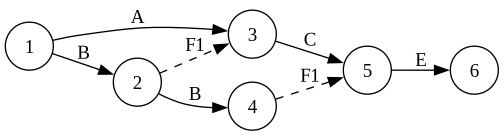
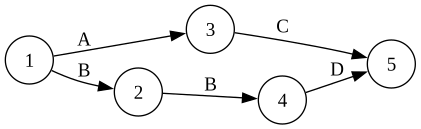
act

diff --git a/PRACTICA_BLOQUE_II/calculoEL.py b/PRACTICA_BLOQUE_II/calculoEL.py
@@ -1,0 +1,158 @@
+import pandas as pd
+
+def calcular_early_times(nodos, relaciones, duraciones):
+    """
+    Calcula Early Times (Ei) para una red de nodos.
+    
+    :param nodos: Lista de nodos (ordenados según dependencias para asegurar cálculos progresivos).
+    :param relaciones: Diccionario donde las claves son nodos y los valores son listas de tuplas (actividad, destino).
+    :param duraciones: Diccionario con las duraciones de las actividades.
+    :return: Diccionario con los tiempos Ei y un DataFrame con los resultados.
+    """
+    # Inicializar Early Times (Ei) en 0 para todos los nodos
+    Ei = {nodo: 0 for nodo in nodos}
+    
+    # Calcular Early Times (Ei) nodo por nodo
+    for nodo in nodos:
+        if nodo in relaciones:  # Si el nodo tiene conexiones salientes
+            for actividad, destino in relaciones[nodo]:
+                # Actualizar Ei del destino como el máximo entre los valores actuales y el nuevo cálculo
+                Ei[destino] = max(Ei[destino], Ei[nodo] + duraciones[actividad])
+    
+    # Crear un DataFrame con los resultados
+    tabla_early = pd.DataFrame({
+        'Ti': nodos,
+        'Ei': [Ei[nodo] for nodo in nodos],
+    })
+    
+    return Ei, tabla_early
+
+def calcular_late_times(nodos, relaciones, duraciones, Ei):
+    """
+    Calcula Late Times (Li) para una red de nodos, usando la lógica inversa de los Early Times.
+    
+    :param nodos: Lista de nodos (ordenados según dependencias para asegurar cálculos progresivos).
+    :param relaciones: Diccionario donde las claves son nodos y los valores son listas de tuplas (actividad, destino).
+    :param duraciones: Diccionario con las duraciones de las actividades.
+    :param Ei: Diccionario con los Early Times calculados previamente.
+    :return: Diccionario con los tiempos Li y un DataFrame con los resultados.
+    """
+    # Inicializar Late Times (Li) con valores grandes (un valor suficientemente grande para empezar)
+    Li = {nodo: float('inf') for nodo in nodos}
+    
+    # El último nodo tiene Li igual a Ei
+    Li[nodos[-1]] = Ei[nodos[-1]]
+    
+    # Calcular Late Times (Li) de forma inversa
+    for nodo in reversed(nodos[:-1]):
+        if nodo in relaciones:  # Si el nodo tiene conexiones salientes
+            for actividad, destino in relaciones[nodo]:
+                # Actualizar Li del nodo como el mínimo entre los valores actuales y el cálculo usando la actividad
+                Li[nodo] = min(Li[nodo], Li[destino] - duraciones[actividad])
+    
+    # Crear un DataFrame con los resultados
+    tabla_late = pd.DataFrame({
+        'Ti': nodos,
+        'Li': [Li[nodo] for nodo in nodos],
+    })
+    
+    return Li, tabla_late
+
+def generar_tabla_tareas(nodos, relaciones, duraciones, Ei, Li):
+    """
+    Genera la tabla de tareas con la información de la ruta, duración, Ei, Lj, Hij y estado crítico.
+    
+    :param nodos: Lista de nodos.
+    :param relaciones: Diccionario de relaciones entre nodos.
+    :param duraciones: Diccionario con las duraciones de las actividades.
+    :param Ei: Diccionario con los tiempos de inicio temprano (Ei) de cada nodo.
+    :param Li: Diccionario con los tiempos de inicio tardío (Li) de cada nodo.
+    :return: DataFrame con la tabla de tareas.
+    """
+    # Lista de resultados para la tabla
+    tareas_info = []
+    
+    # Recorremos todas las actividades para llenar la tabla
+    for nodo in nodos:
+        if nodo in relaciones:  # Si el nodo tiene conexiones salientes
+            for actividad, destino in relaciones[nodo]:
+                # Obtener la duración de la tarea
+                Di = duraciones[actividad]
+                # Obtener Ei para el nodo origen y Lj para el nodo destino
+                Ei_val = Ei[nodo]
+                Lj_val = Li[destino]
+                # Calcular Hij (holgura)
+                Hij = Lj_val - Di - Ei_val
+                # Verificar si la tarea es crítica
+                critico = "Sí" if Hij == 0 else "No"
+                # Añadir la fila correspondiente a la tabla
+                tareas_info.append([actividad, f"{nodo} -> {destino}", Di, Ei_val, Lj_val, Hij, critico])
+    
+    # Crear un DataFrame con la información recopilada
+    tabla_tareas = pd.DataFrame(tareas_info, columns=["Tarea", "Ruta(i->j)", "Di", "Ei", "Lj", "Hij", "Critico"])
+    
+    return tabla_tareas
+
+
+# Nodos en orden progresivo de cálculo
+nodos = [1, 2, 3, 4]
+
+# Relaciones entre nodos (origen -> (actividad, destino))
+relaciones = {
+    1: [('A', 2), ('C', 3)],  # Nodo 1 se conecta con 2 (A) y 3 (C)
+    2: [('F1', 3), ('B', 4)], # Nodo 2 se conecta con 3 (F1) y 4 (B)
+    3: [('D', 4)]             # Nodo 3 se conecta con 4 (D)
+}
+
+# Duraciones de las actividades (t0, tm, tp calculado previamente como De)
+duraciones = {
+    'A': 89 / 6,
+    'B': 55 / 6,
+    'C': 51 / 6,
+    'D': 41 / 6,
+    'F1': 0
+}
+
+# Calcular Early Times (Ei)
+Ei, tabla_early = calcular_early_times(nodos, relaciones, duraciones)
+
+# Calcular Late Times (Li)
+Li, tabla_late = calcular_late_times(nodos, relaciones, duraciones, Ei)
+
+# Unir las dos tablas en una sola
+tabla_completa = pd.merge(tabla_early, tabla_late, on='Ti')
+
+# Generar la tabla de tareas
+tabla_tareas = generar_tabla_tareas(nodos, relaciones, duraciones, Ei, Li)
+
+# Mostrar las tablas generadas
+print("Tabla Completa (Ei y Li):")
+print(tabla_completa.to_latex(index=False, float_format="%.3f"))
+
+print("\nTabla de Tareas:")
+print(tabla_tareas.to_latex(index=False, float_format="%.3f"))
+
+# Filtrar las tareas críticas
+tareas_criticas = tabla_tareas[tabla_tareas['Critico'] == 'Sí']
+
+# Mostrar el camino crítico
+camino_critico = tareas_criticas[['Tarea', 'Ruta(i->j)', 'Di']]
+
+# Calcular la suma de las duraciones de las tareas críticas
+suma_criticas = tareas_criticas['Di'].sum()
+
+# Mostrar el camino crítico y la suma de las duraciones
+print("\nCamino Crítico:")
+print(camino_critico.to_latex(index=False, float_format="%.3f"))
+
+print(f"\nSuma de las duraciones de las tareas críticas: {suma_criticas:.3f}")
+
+# Exportar las tablas a LaTeX (opcional)
+archivo_latex_completo = "tabla_completa.tex"
+tabla_completa.to_latex(archivo_latex_completo, index=False, float_format="%.3f")
+
+archivo_latex_tareas = "tabla_tareas.tex"
+tabla_tareas.to_latex(archivo_latex_tareas, index=False, float_format="%.3f")
+
+print(f"\nLa tabla completa se ha exportado a: {archivo_latex_completo}")
+print(f"La tabla de tareas se ha exportado a: {archivo_latex_tareas}")

diff --git a/PRACTICA_BLOQUE_II/grafo.py b/PRACTICA_BLOQUE_II/grafo.py
@@ -61,18 +61,10 @@ def generar_grafo_pert(relaciones, variables, archivo_salida='graph'):
     for origen, destino in relaciones:
         nodos_entrantes[destino] = True
     
-    # Nodo 1 será el primer nodo sin flechas entrantes
-    # Filtrar las variables que no están precedidas
+    # Nodo 1 será el primer nodo sin flechas entrantes o el primero de la lista
     nodos_sin_precedencia = [var for var, tiene_entrantes in nodos_entrantes.items() if not tiene_entrantes]
+    nodo_inicio = nodos_sin_precedencia[0] if nodos_sin_precedencia else variables[0]
 
-    # Asegurarse de que al menos un nodo sea de inicio
-    if not nodos_sin_precedencia:
-        print("¡Error! Todos los nodos tienen precedencia. Necesitamos al menos un nodo sin precedencia.")
-        return
-    
-    # El nodo inicial será el primero en esta lista de nodos sin precedencia
-    nodo_inicio = nodos_sin_precedencia[0]
-    
     # Crear nodo de inicio (nodo "1")
     dot.node(str(var_to_num[nodo_inicio]), label=str(var_to_num[nodo_inicio]))
     
@@ -95,6 +87,7 @@ def generar_grafo_pert(relaciones, variables, archivo_salida='graph'):
         # Agregar la arista con el label apropiado
         dot.edge(str(origen_num), str(destino_num), label=label, style=style)
 
+
         # Registrar la relación en el diccionario de precedencias
         precedencias[destino].append(origen)
     
@@ -114,7 +107,7 @@ def generar_grafo_pert(relaciones, variables, archivo_salida='graph'):
     
     # Eliminar nodos sin precedencia de la lista
     nodos_con_salientes_num = [var_to_num[var] for var in nodos_con_salientes]
-    print(nodos_con_salientes_num)
+    
     # Eliminar los nodos sin salientes
     for var in nodos_con_salientes:
         dot.node(str(var_to_num[var]), label=str(var_to_num[var]))
@@ -124,20 +117,20 @@ def generar_grafo_pert(relaciones, variables, archivo_salida='graph'):
 
     # Crear el nodo final con el número siguiente al último nodo
     if nodos_finales:
-        ultimo_numero = var_to_num[nodos_con_salientes[-1]]  # Último nodo en la secuencia
+        ultimo_numero = max(var_to_num.values())  # Número más alto existente
         nodo_final_num = ultimo_numero + 1  # Nodo final será el siguiente número
         dot.node(str(nodo_final_num), label=str(nodo_final_num))  # Crear nodo final
 
         # Conectar las variables finales al nuevo nodo final sin bucles
         for var in nodos_finales:
-            dot.edge(str(var_to_num[var]), str(nodo_final_num+1), label=var)  # Conectar sin bucles
+            dot.edge(str(var_to_num[var]), str(nodo_final_num), label=var)  # Conectar sin bucles
 
     # Renderizar el grafo
     dot.render(archivo_salida, format='png', cleanup=True)
     print(f"Grafo generado y guardado como {archivo_salida}.png")
 
 # Uso del programa
-archivo_excel = "input.xlsx"  # Cambia esto por la ruta de tu archivo Excel
+archivo_excel = "input2.xlsx"  # Cambia esto por la ruta de tu archivo Excel
 
 # Leer las relaciones de precedencia
 relaciones_precedencia, variables = leer_matriz_dependencias(archivo_excel)

diff --git a/PRACTICA_BLOQUE_II/inicio.py b/PRACTICA_BLOQUE_II/inicio.py
@@ -48,13 +48,12 @@ def exportar_a_latex(datos, archivo_latex):
         f.write(tabla_latex)
 
 # Uso del programa
-archivo_excel = "input.xlsx"  # Cambia esto por la ruta de tu archivo Excel
+archivo_excel = "input2.xlsx"  # Cambia esto por la ruta de tu archivo Excel
 archivo_latex = "tabla.tex"  # Ruta del archivo de salida en LaTeX
 
 # Leer, procesar y exportar
 datos_procesados = leer_y_procesar_excel(archivo_excel)
 exportar_a_latex(datos_procesados, archivo_latex)
-
 # Mostrar la tabla en consola
 print("Tabla en formato LaTeX:")
 print(datos_procesados.to_latex(index=False, float_format="%.3f"))

diff --git a/PRACTICA_BLOQUE_II/tabla_tareas.tex b/PRACTICA_BLOQUE_II/tabla_tareas.tex
@@ -1,0 +1,11 @@
+\begin{tabular}{llrrrrl}
+\toprule
+Tarea & Ruta(i->j) & Di & Ei & Lj & Hij & Critico \\
+\midrule
+A & 1 -> 2 & 14.833 & 0.000 & 14.833 & 0.000 & Sí \\
+C & 1 -> 3 & 8.500 & 0.000 & 17.167 & 8.667 & No \\
+F1 & 2 -> 3 & 0.000 & 14.833 & 17.167 & 2.333 & No \\
+B & 2 -> 4 & 9.167 & 14.833 & 24.000 & 0.000 & Sí \\
+D & 3 -> 4 & 6.833 & 14.833 & 24.000 & 2.333 & No \\
+\bottomrule
+\end{tabular}

diff --git a/PRACTICA_BLOQUE_II/tabla_completa.tex b/PRACTICA_BLOQUE_II/tabla_completa.tex
@@ -1,0 +1,10 @@
+\begin{tabular}{rrr}
+\toprule
+Ti & Ei & Li \\
+\midrule
+1 & 0.000 & 0.000 \\
+2 & 14.833 & 14.833 \\
+3 & 14.833 & 17.167 \\
+4 & 24.000 & 24.000 \\
+\bottomrule
+\end{tabular}
